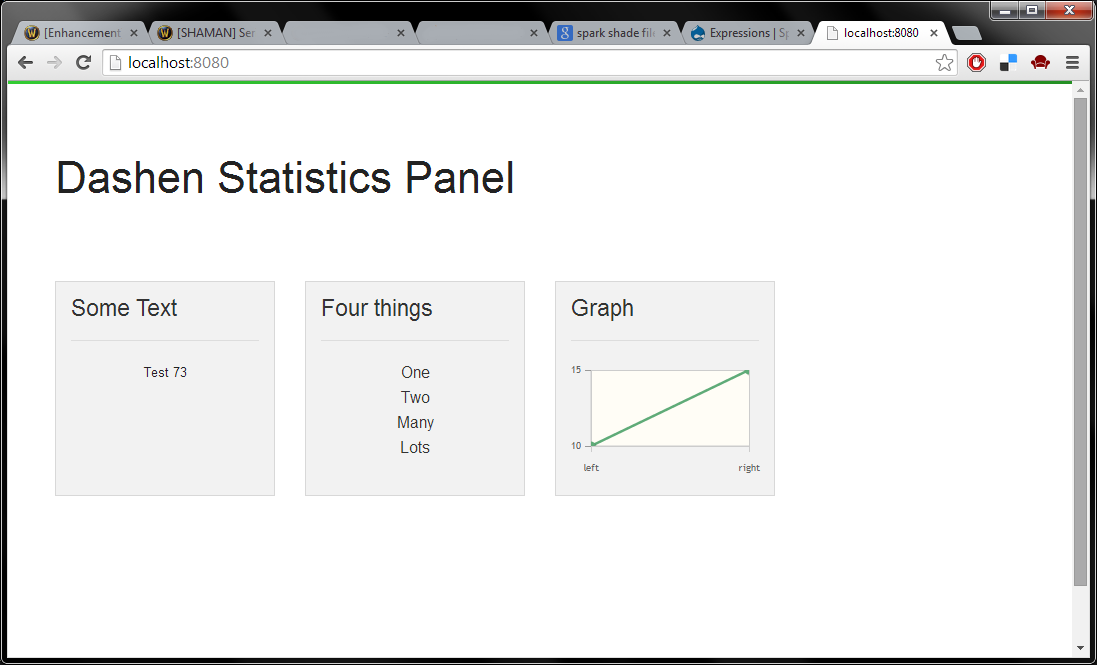
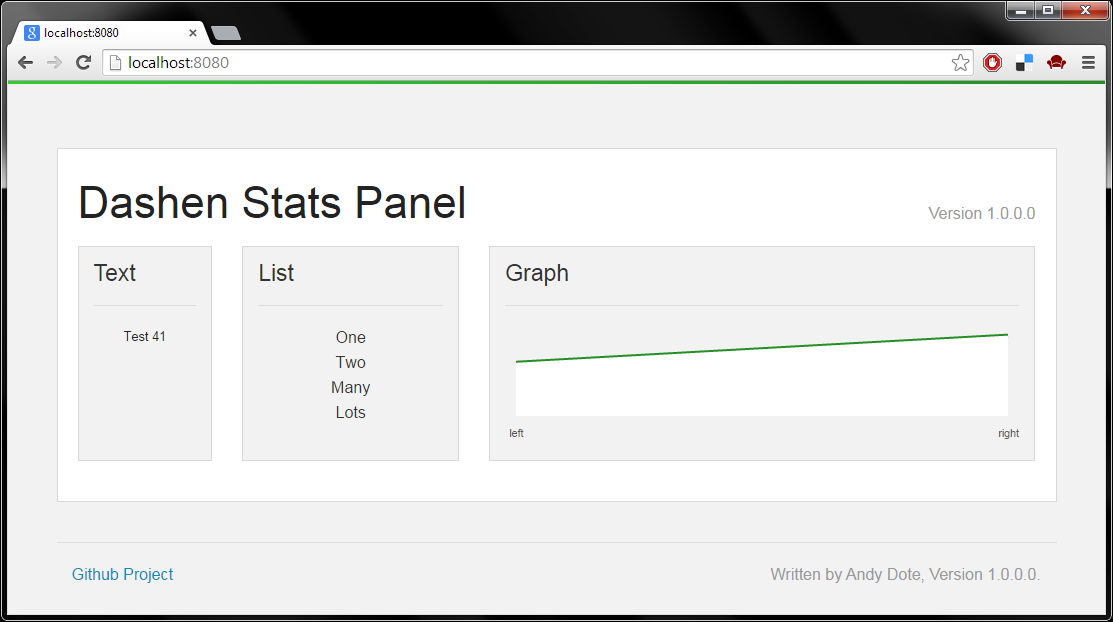
demo: update demo titles and screenshot

diff --git a/ConsoleTestApp/Program.cs b/ConsoleTestApp/Program.cs
@@ -21,7 +21,7 @@ namespace ConsoleTestApp
 			ui.Register(new Widget
 			{
 				Create = () => model,
-				Heading = "Some Text",
+				Heading = "Text",
 				Interval = new TimeSpan(0,0,1),
 				Width = 2,
 			});
@@ -29,7 +29,7 @@ namespace ConsoleTestApp
 			ui.Register(new Widget
 			{
 				Create = () => new ListControlViewModel { Items = new[] { "One", "Two", "Many", "Lots" }.ToList() },
-				Heading = "Four things",
+				Heading = "List",
 				Width = 3
 			});
 
